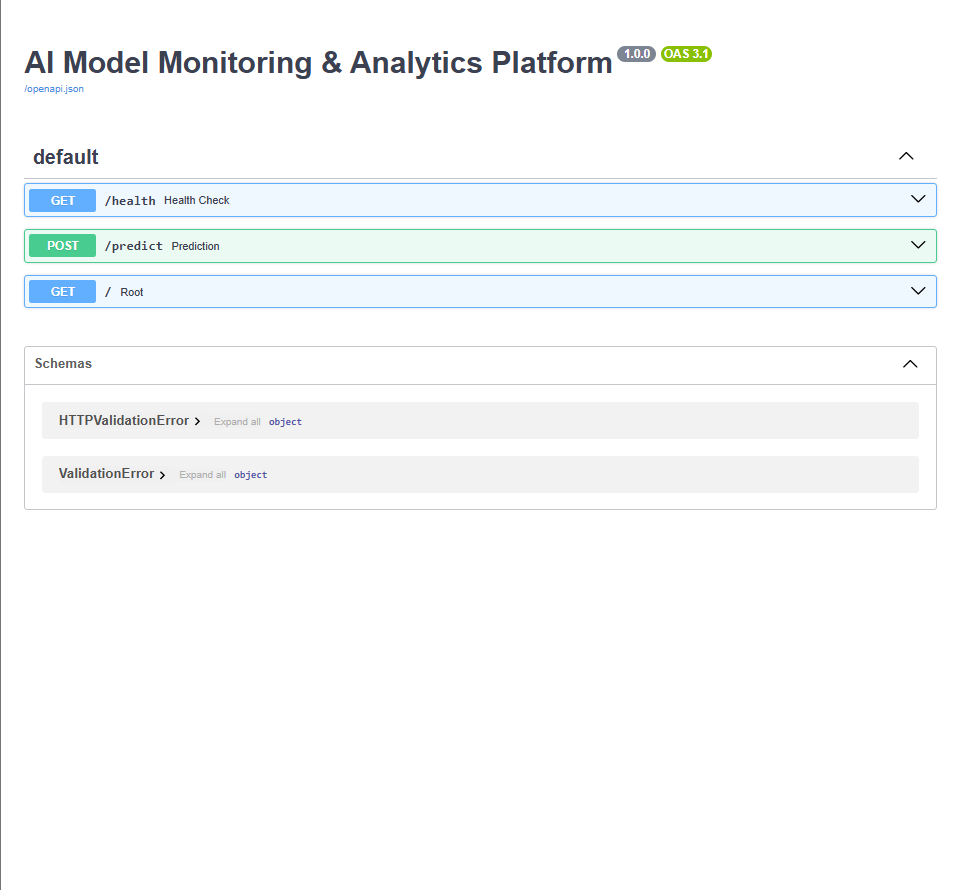
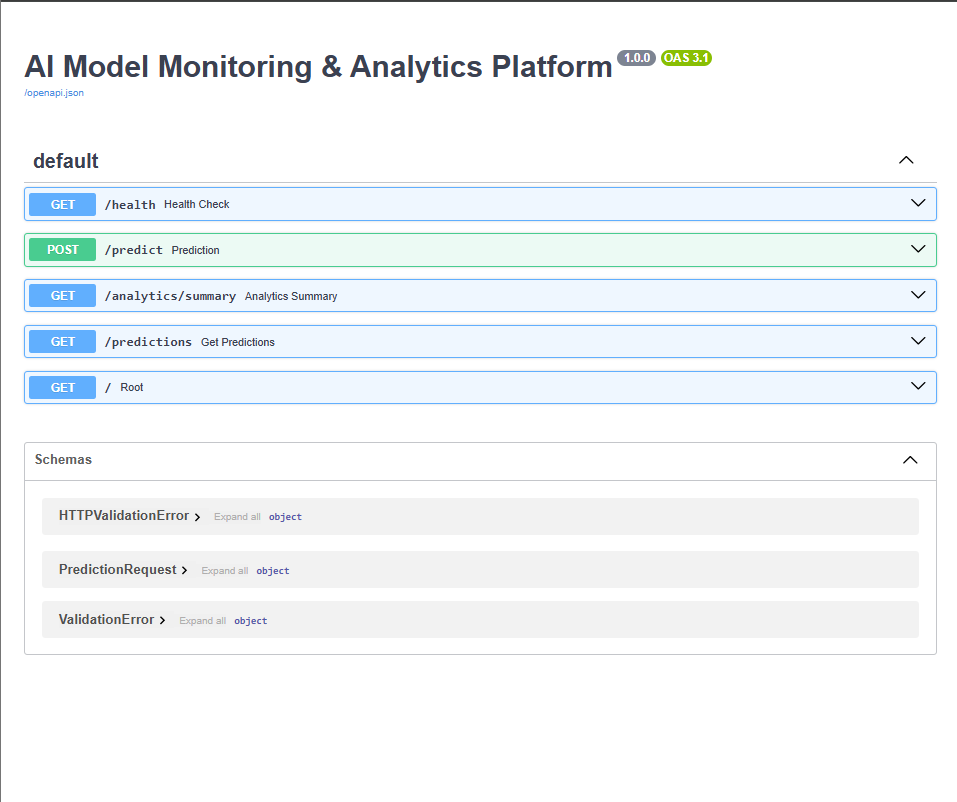
Updated API screenshots with analytics endpoints

diff --git a/app/api/routes.py b/app/api/routes.py
@@ -1,23 +1,90 @@
-from fastapi import APIRouter
+import time
+from fastapi import APIRouter, Depends
+from pydantic import BaseModel
+from sqlalchemy.orm import Session
+
+from app.database.connection import get_db
+from app.database.models import Base, PredictionLog
+from app.database.connection import engine
 from app.ml.model import predict
 from app.ml.anomaly_detector import detect_anomaly
+from app.analytics.metrics_service import calculate_summary
+
+Base.metadata.create_all(bind=engine)
 
 router = APIRouter()
 
+
+class PredictionRequest(BaseModel):
+    sample_input: float
+    model_name: str = "customer-risk-model"
+
+
 @router.get("/health")
 async def health_check():
-    return {
-        "status": "healthy"
-    }
+    return {"status": "healthy"}
+
 
 @router.post("/predict")
-async def prediction(data: dict):
+async def prediction(request: PredictionRequest, db: Session = Depends(get_db)):
+    start_time = time.time()
 
-    prediction_result = predict(data)
+    prediction_result = predict({
+        "sample_input": request.sample_input,
+        "model_name": request.model_name
+    })
 
-    anomaly = detect_anomaly(prediction_result)
+    latency_ms = round((time.time() - start_time) * 1000, 2)
+    prediction_score = prediction_result["model_prediction_score"]
+    anomaly = detect_anomaly(prediction_score, latency_ms)
+
+    log = PredictionLog(
+        model_name=request.model_name,
+        model_version=prediction_result["model_version"],
+        input_value=request.sample_input,
+        prediction_score=prediction_score,
+        anomaly_detected=anomaly,
+        latency_ms=latency_ms
+    )
+
+    db.add(log)
+    db.commit()
+    db.refresh(log)
 
     return {
+        "request_id": log.id,
         "prediction": prediction_result,
-        "anomaly_detected": anomaly
+        "anomaly_detected": anomaly,
+        "latency_ms": latency_ms,
+        "stored_in_database": True
+    }
+
+
+@router.get("/analytics/summary")
+async def analytics_summary(db: Session = Depends(get_db)):
+    logs = db.query(PredictionLog).all()
+    return calculate_summary(logs)
+
+
+@router.get("/predictions")
+async def get_predictions(db: Session = Depends(get_db)):
+    logs = db.query(PredictionLog).order_by(PredictionLog.id.desc()).limit(10).all()
+
+    return [
+        {
+            "id": log.id,
+            "model_name": log.model_name,
+            "prediction_score": log.prediction_score,
+            "anomaly_detected": log.anomaly_detected,
+            "latency_ms": log.latency_ms,
+            "created_at": log.created_at
+        }
+        for log in logs
+    ]
+
+
+@router.get("/")
+async def root():
+    return {
+        "message": "AI Model Monitoring Platform Running"
     }

diff --git a/app/database/connection.py b/app/database/connection.py
@@ -1,11 +1,17 @@
+import os
 from sqlalchemy import create_engine
 from sqlalchemy.orm import sessionmaker
 
-DATABASE_URL = "sqlite:///./monitoring.db"
+DATABASE_URL = os.getenv(
+    "DATABASE_URL",
+    "sqlite:///./monitoring.db"
+)
+
+connect_args = {"check_same_thread": False} if DATABASE_URL.startswith("sqlite") else {}
 
 engine = create_engine(
     DATABASE_URL,
-    connect_args={"check_same_thread": False}
+    connect_args=connect_args
 )
 
 SessionLocal = sessionmaker(
@@ -13,3 +19,11 @@ SessionLocal = sessionmaker(
     autoflush=False,
     bind=engine
 )
+
+
+def get_db():
+    db = SessionLocal()
+    try:
+        yield db
+    finally:
+        db.close()

diff --git a/app/database/models.py b/app/database/models.py
@@ -1,6 +1,6 @@
+from datetime import datetime
 from sqlalchemy import Column, Integer, Float, String, Boolean, DateTime
 from sqlalchemy.orm import declarative_base
-from datetime import datetime
 
 Base = declarative_base()
 
@@ -9,7 +9,9 @@ class PredictionLog(Base):
     __tablename__ = "prediction_logs"
 
     id = Column(Integer, primary_key=True, index=True)
+    model_name = Column(String, default="customer-risk-model")
     model_version = Column(String, default="v1.0")
+    input_value = Column(Float)
     prediction_score = Column(Float)
     anomaly_detected = Column(Boolean)
     latency_ms = Column(Float)

diff --git a/app/ml/anomaly_detector.py b/app/ml/anomaly_detector.py
@@ -1,8 +1,11 @@
-def detect_anomaly(prediction):
+def detect_anomaly(prediction_score: float, latency_ms: float = 0) -> bool:
+    if prediction_score >= 0.90:
+        return True
 
-    score = prediction["model_prediction_score"]
+    if prediction_score <= 0.10:
+        return True
 
-    if score > 0.90:
+    if latency_ms > 500:
         return True
 
     return False
